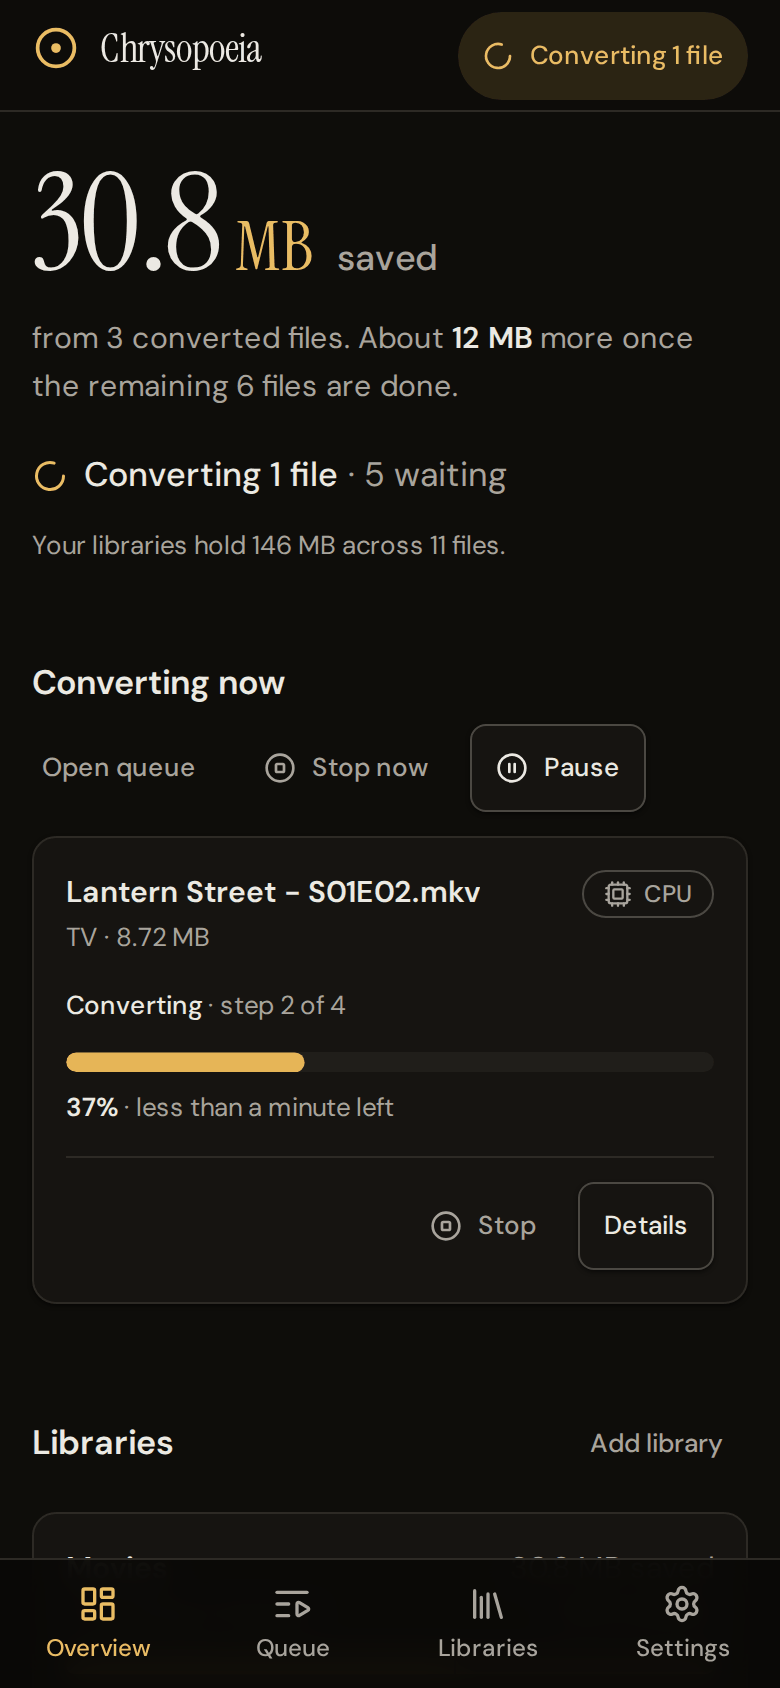
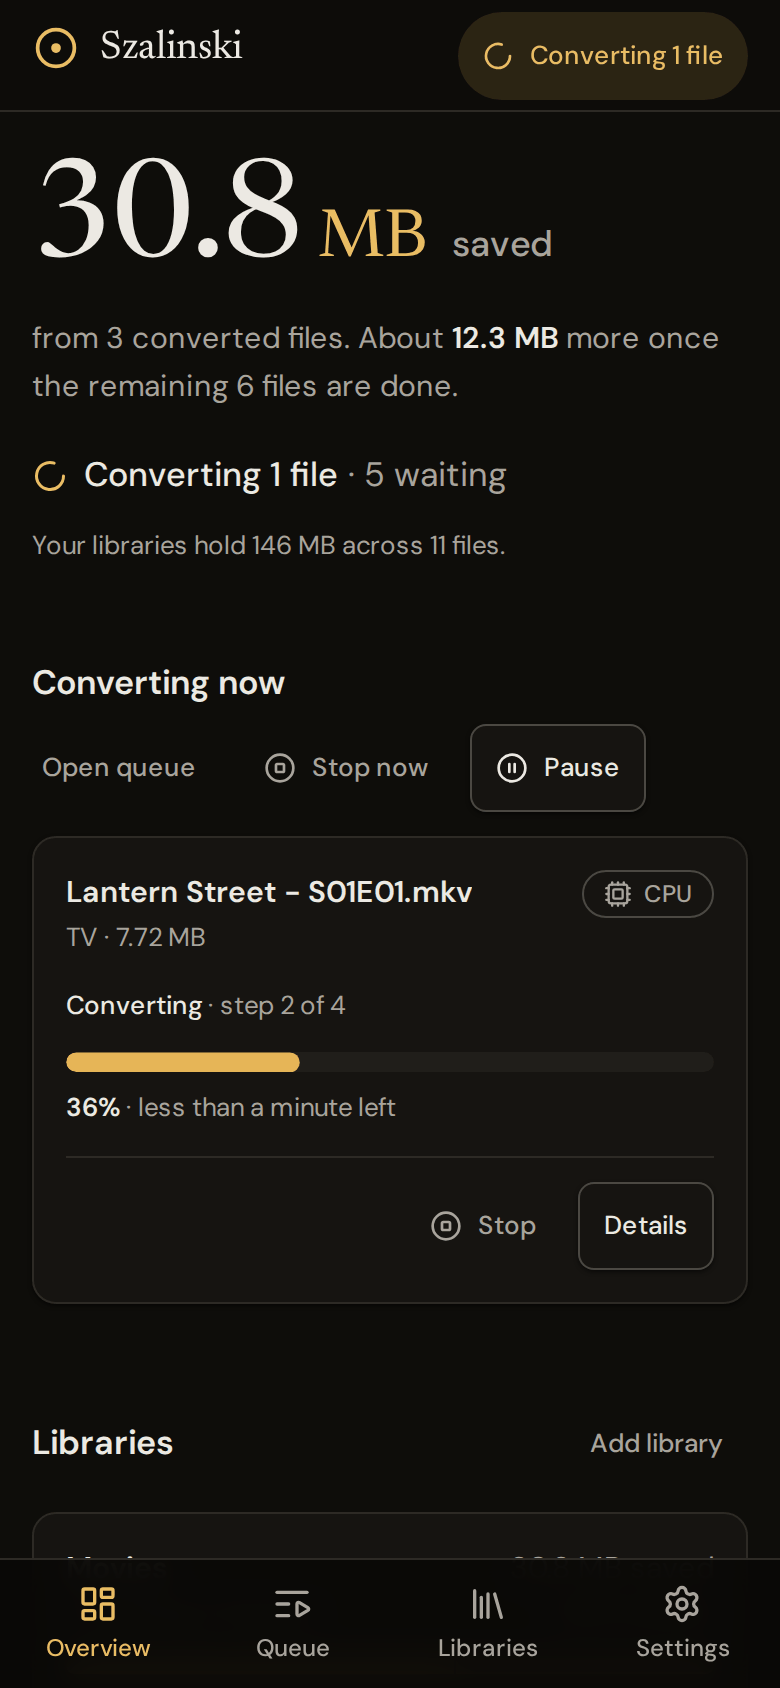
fix(docker): treat a Chrysopoeia config folder as Szalinski's; retake screenshots
Upgrade test on the Unraid layout (PUID 99, PGID 100, UMASK 002) from the
owner's Chrysopoeia image (sha256:431805d3...) to this build: the database,
libraries, settings and history carried over, an original left under its
.chrysopoeia- backup name by a SIGKILL mid-replace was put back, and a kill
just after the new file took its name kept the new file. One thing was wrong:
the first start printed "/config already holds other files but no Szalinski
database ... give Szalinski a folder of its own", because the entrypoint only
knew szalinski.db, while the docs tell movers to keep the old Config folder.

The entrypoint now counts chrysopoeia.db as Szalinski's database (no warning,
and a folder holding it is given to PUID/PGID like one holding szalinski.db)
and fixes the owner of chrysopoeia.db and its -wal/-shm/-journal files and of
chrysopoeia.lock, as it does for the new names. Entrypoint tests cover both.

Docs: going back to Chrysopoeia means restoring the backup; started on the
upgraded folder, Chrysopoeia finds no chrysopoeia.db and starts empty (first
run, no libraries, settings or history) while leaving szalinski.db alone, so
Szalinski started again carries on. The Unraid steps name the log line that
confirms the carry-over.

Screenshots retaken from the new image (Szalinski name, Newsreader display
font), same names and sizes, 256-colour palettes.

Claude-Session: https://claude.ai/code/session_01JQUv8oKV5SmdKwTPUKputQ

diff --git a/docs/UNRAID.md b/docs/UNRAID.md
@@ -325,7 +325,7 @@ published as `ghcr.io/thekozugroup/chrysopoeia` for a while. Switch to the new
 name when convenient:
 
 1. Back up the Config folder first (see [Backing up](#backing-up)). The new
-   version updates the database, and an older version can't read it
+   version renames and updates the database, so Chrysopoeia can't use it
    afterwards.
 2. On the **Docker** tab, click the Chrysopoeia icon, then **Edit**.
 3. Change **Repository** from `ghcr.io/thekozugroup/chrysopoeia:<tag>` to
@@ -336,13 +336,20 @@ name when convenient:
    limits as they are: the Config path can stay
    `/mnt/user/appdata/chrysopoeia`.
 4. Click **Apply**. On the first start the database in the Config folder is
-   renamed from `chrysopoeia.db` to `szalinski.db`; libraries, settings and
-   history carry over. A conversion that was interrupted under the old name is
-   finished or undone as usual.
+   renamed from `chrysopoeia.db` to `szalinski.db` (the log says *carried over
+   the database of Chrysopoeia*); libraries, settings and history carry over.
+   A conversion that was interrupted under the old name is finished or undone
+   as usual.
 
 Never start the old and the new image on the same Config folder at the same
-time: whichever starts second refuses to. To go back to Chrysopoeia, restore
-the backup from step 1 with the container stopped.
+time: whichever starts second refuses to (*already using the data folder* in
+its log) and changes nothing. To go back to Chrysopoeia, restore the backup
+from step 1 with the container stopped. Chrysopoeia started on the folder
+afterwards without the backup finds no `chrysopoeia.db` and starts empty, like
+a new install, with the first-run screens and no libraries, settings or
+history. It leaves `szalinski.db` alone, so nothing is lost: Szalinski started
+on the folder again carries on with everything it had (the new, empty
+`chrysopoeia.db` can then be deleted).
 
 ### Switching an existing install from :latest to :stable
 

diff --git a/CHANGELOG.md b/CHANGELOG.md
@@ -47,7 +47,9 @@ What is coming after 0.2.0, from an evaluation on a real AMD Unraid server.
   build label variable `SZALINSKI_VERSION`. An existing install keeps working:
   the database (`chrysopoeia.db`) is carried over to `szalinski.db` on the
   first start, backup and temporary files left by the old name are still found
-  and put back after an interrupted conversion, and the old image's lock is
+  and put back after an interrupted conversion, the container treats the old
+  database and lock as its own (no warning about a shared Config folder, and
+  their owner is fixed like the new files'), and the old image's lock is
   honoured so the two can never share a `/config` folder. Every release is
   also published under the old image name for a while, so an install that
   still pulls `ghcr.io/thekozugroup/chrysopoeia` keeps updating; switch its

diff --git a/README.md b/README.md
@@ -429,7 +429,9 @@ history live in `/config` and are kept.
 are also published as `ghcr.io/thekozugroup/chrysopoeia` for a while, so an
 existing install keeps updating. To switch, back up `/config`, then change the
 image to `ghcr.io/thekozugroup/szalinski` and keep the same `/config`: the
-database is carried over on the first start. Step by step for Unraid:
+database is carried over on the first start. To go back, restore that backup:
+Chrysopoeia does not find the carried-over database and would start empty.
+Step by step for Unraid:
 [Moving from Chrysopoeia](docs/UNRAID.md#moving-from-chrysopoeia).
 
 - **Unraid:** Docker tab › *Check for Updates* › *apply update*.
